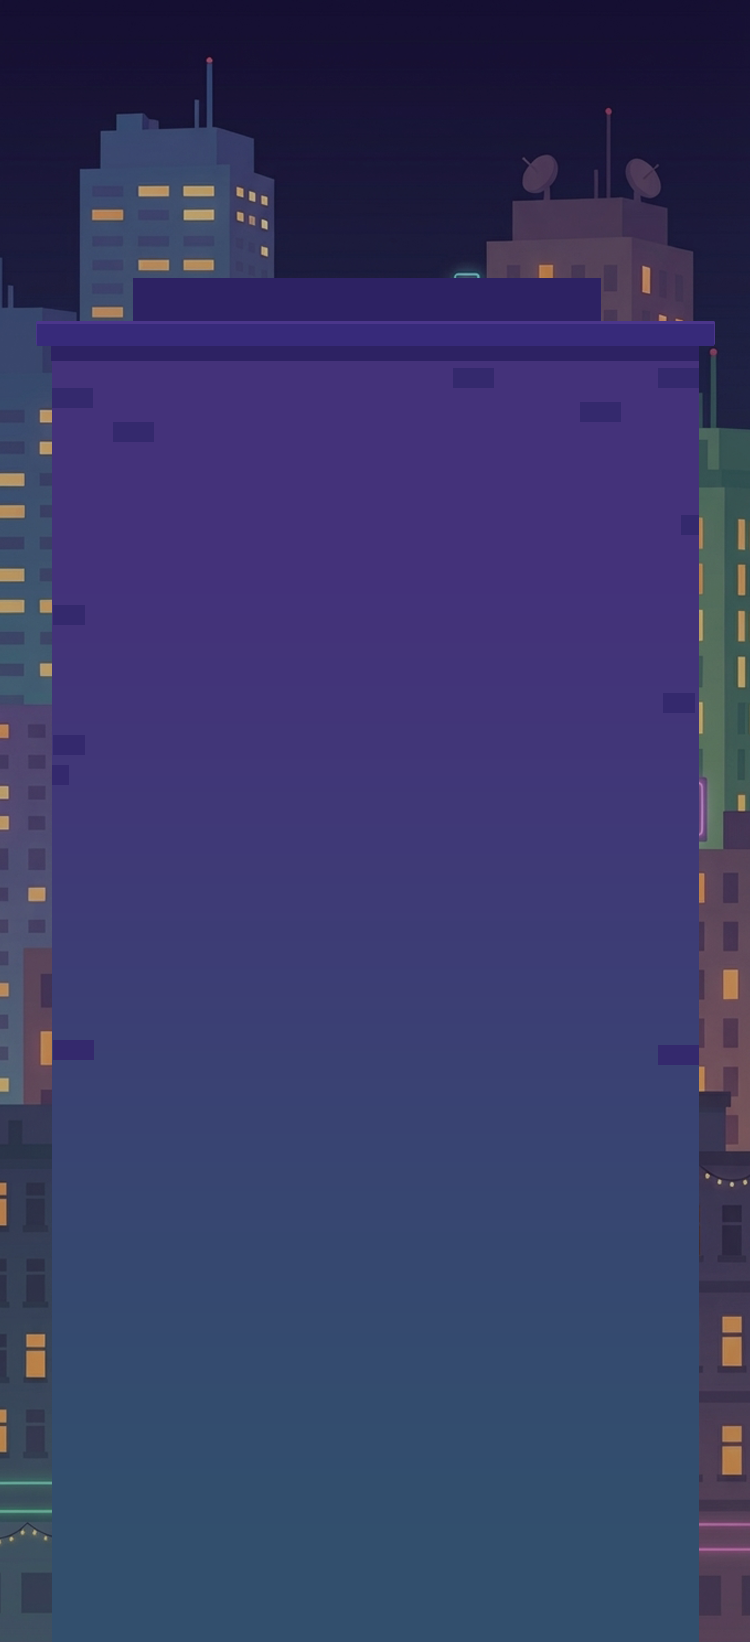
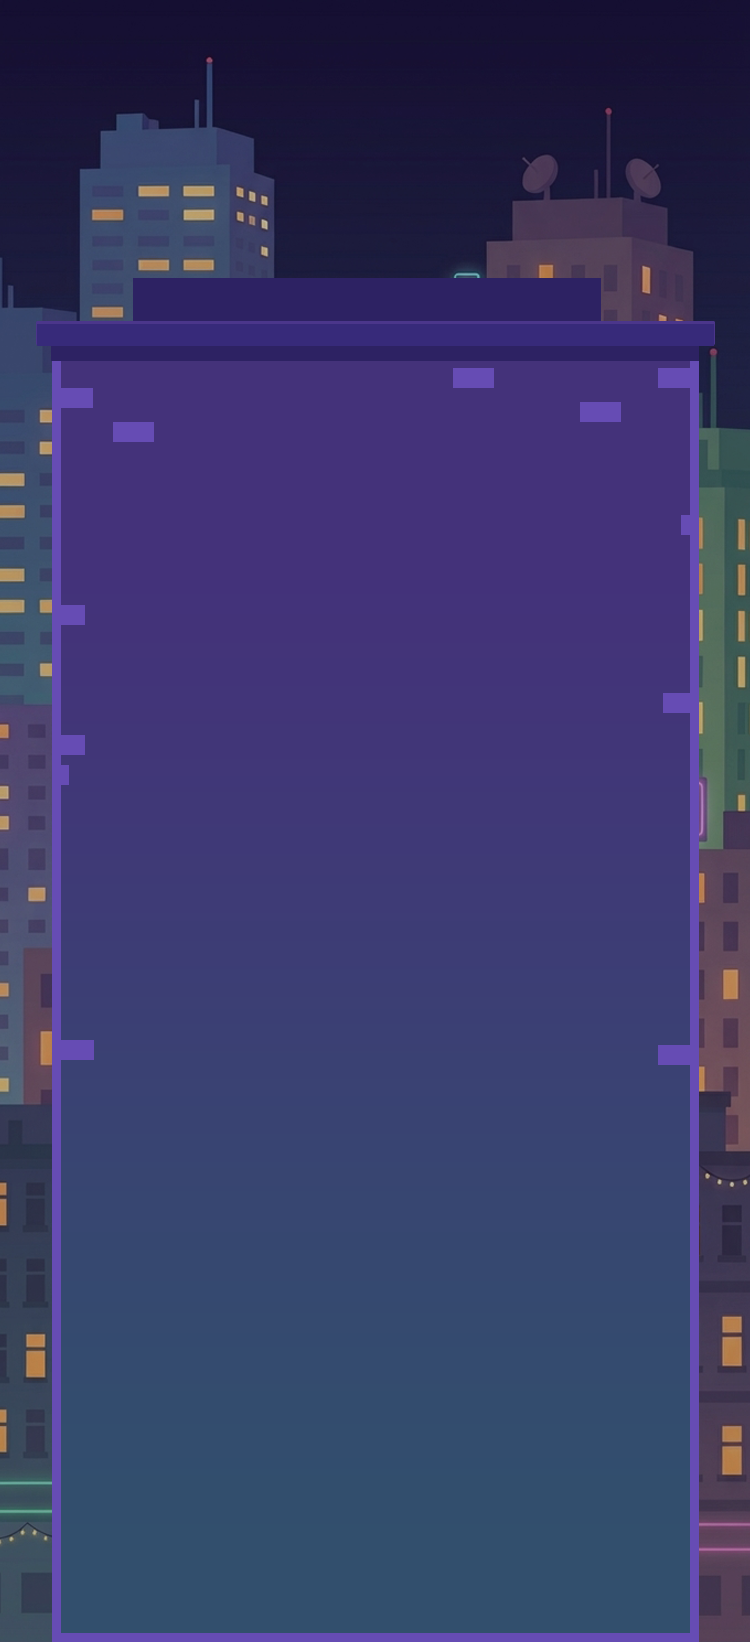
迭代

diff --git a/index.html b/index.html
@@ -142,7 +142,8 @@
     const SPINE_CONFIG = {
         windowUrls:[
             './AN/window1/window1.json',  
-            './AN/window2/window2.json'
+            './AN/window2/window2.json',
+            './AN/window3/window3.json'
         ],
         peopleUrl: './AN/people1/people1.json',
         originX: 0.5, originY: 0.5, baseWidth: 82, baseHeight: 116
